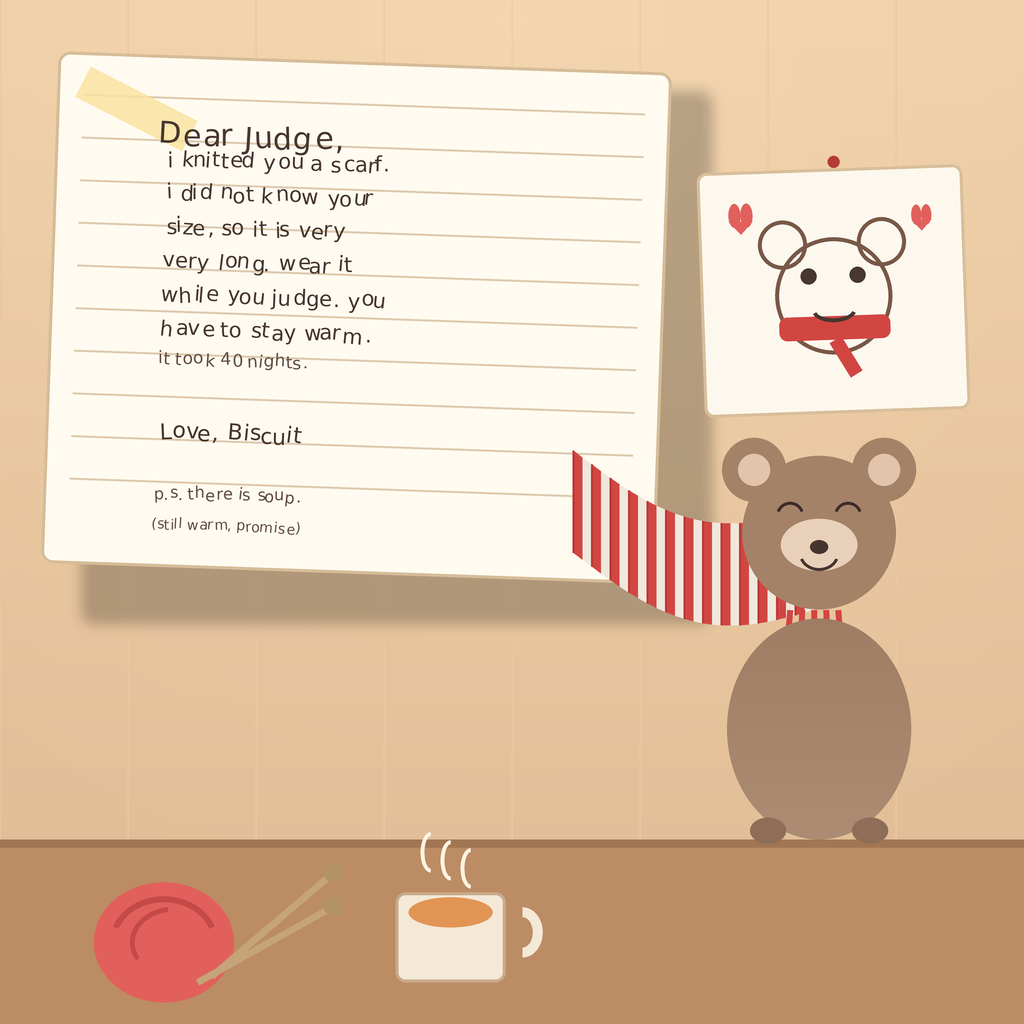
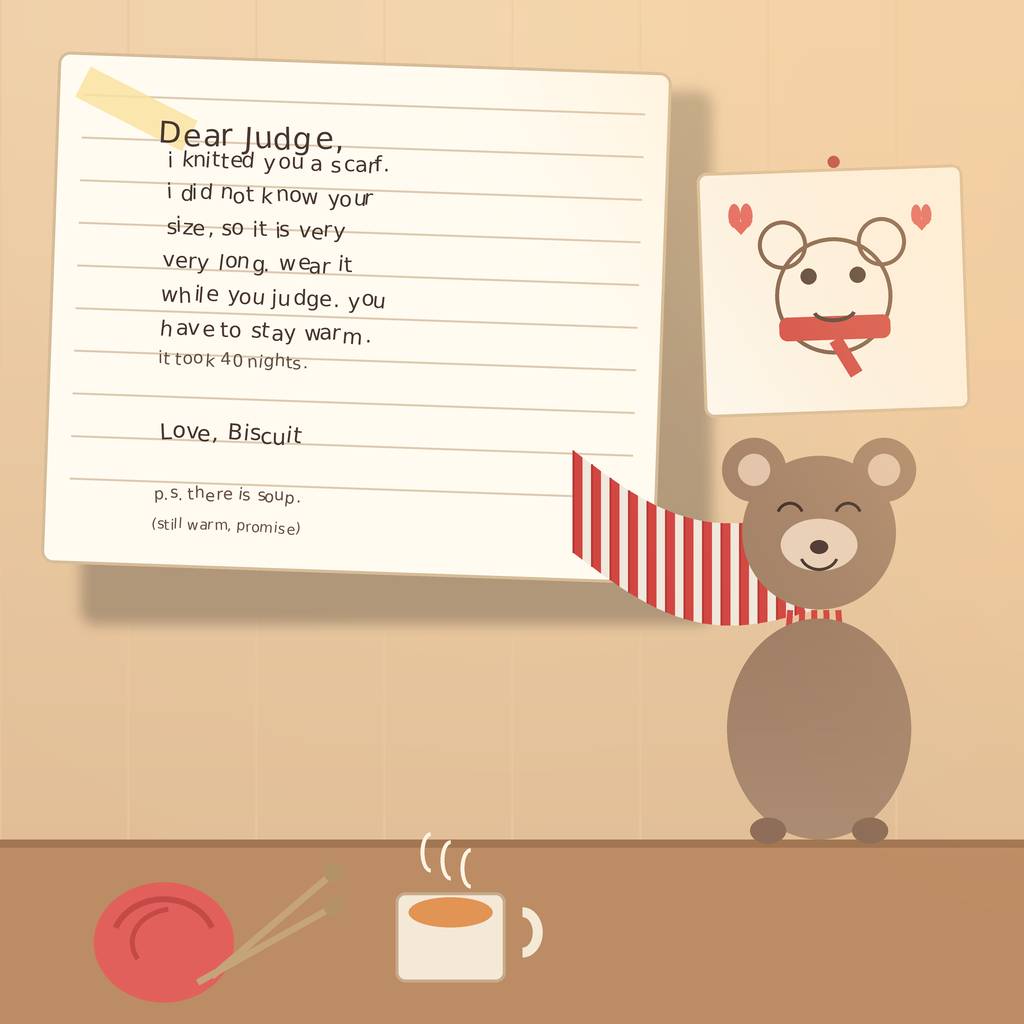
v10: warm window-light beam

Changed region(s): [[0.75, 0.2188, 0.875, 0.375], [0.8438, 0.1875, 0.9062, 0.25]]

diff --git a/gen_entry.py b/gen_entry.py
@@ -254,6 +254,14 @@ vig = vig.filter(ImageFilter.GaussianBlur(120 * S))
 dark = Image.new("RGB", (WBig, HBig), (120, 84, 60))
 img = Image.composite(img, dark, vig)
 
+# --- warm window-light beam from upper right ----------------------------------
+beam = Image.new("L", (WBig, HBig), 0)
+bd = ImageDraw.Draw(beam)
+bd.polygon([(WBig, 0), (int(0.55 * WBig), 0), (WBig, int(0.75 * HBig))], fill=70)
+beam = beam.filter(ImageFilter.GaussianBlur(90 * S))
+warm = Image.new("RGB", (WBig, HBig), (255, 210, 150))
+img = Image.composite(warm, img, beam)
+
 final = img.resize((W, H), Image.LANCZOS)
 out = os.environ.get("MAKEFUN_OUTPUT_DIR", "/output")
 os.makedirs(out, exist_ok=True)
